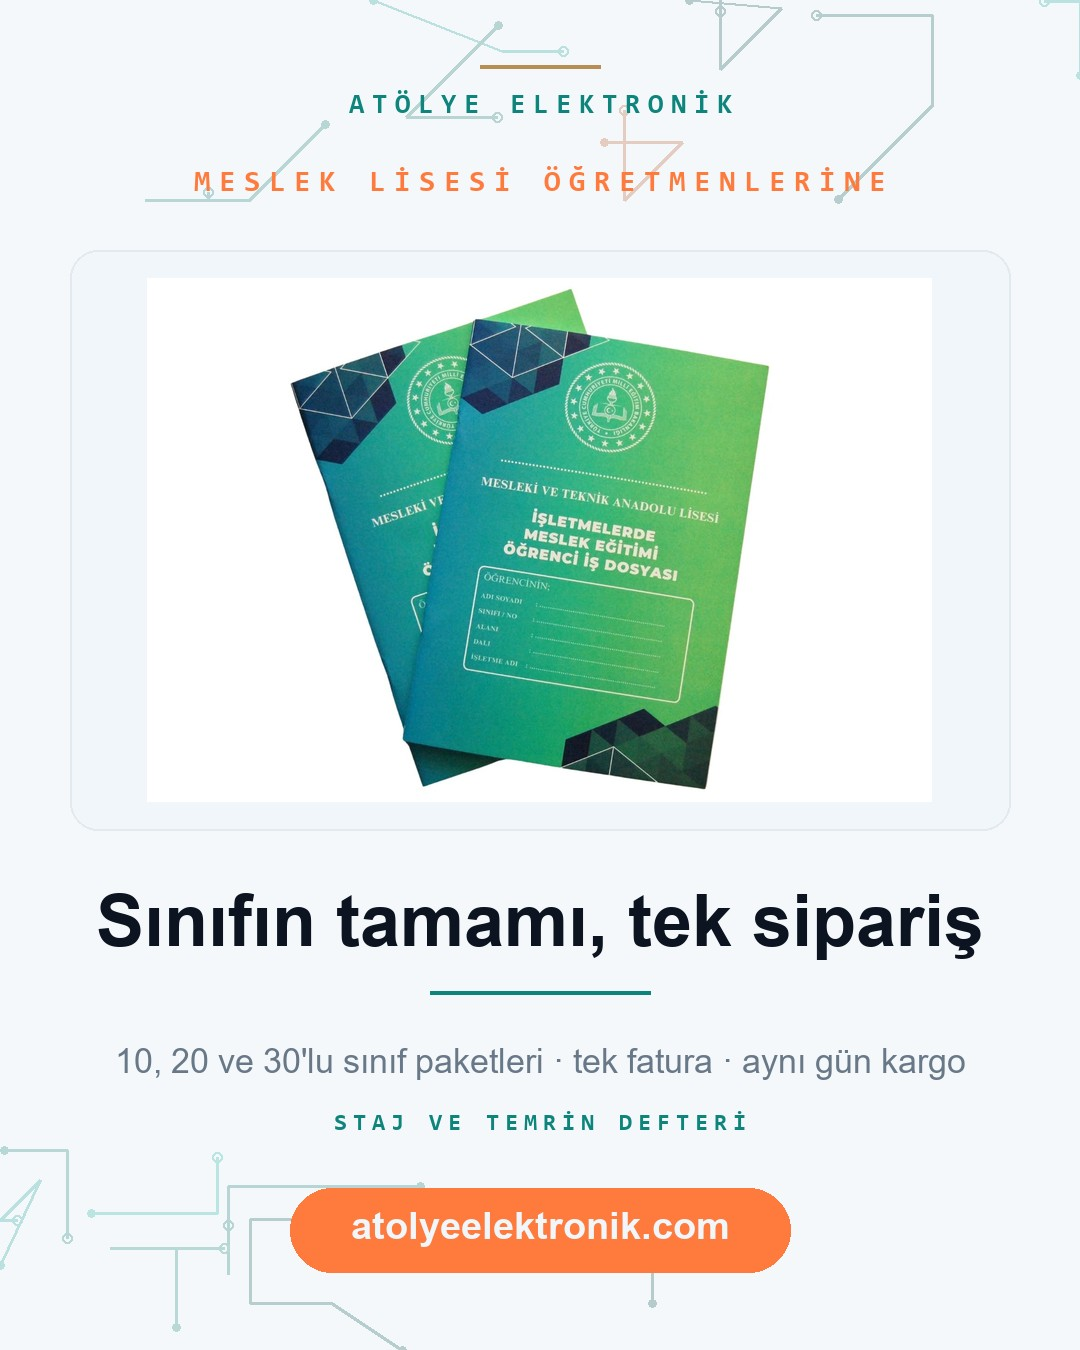
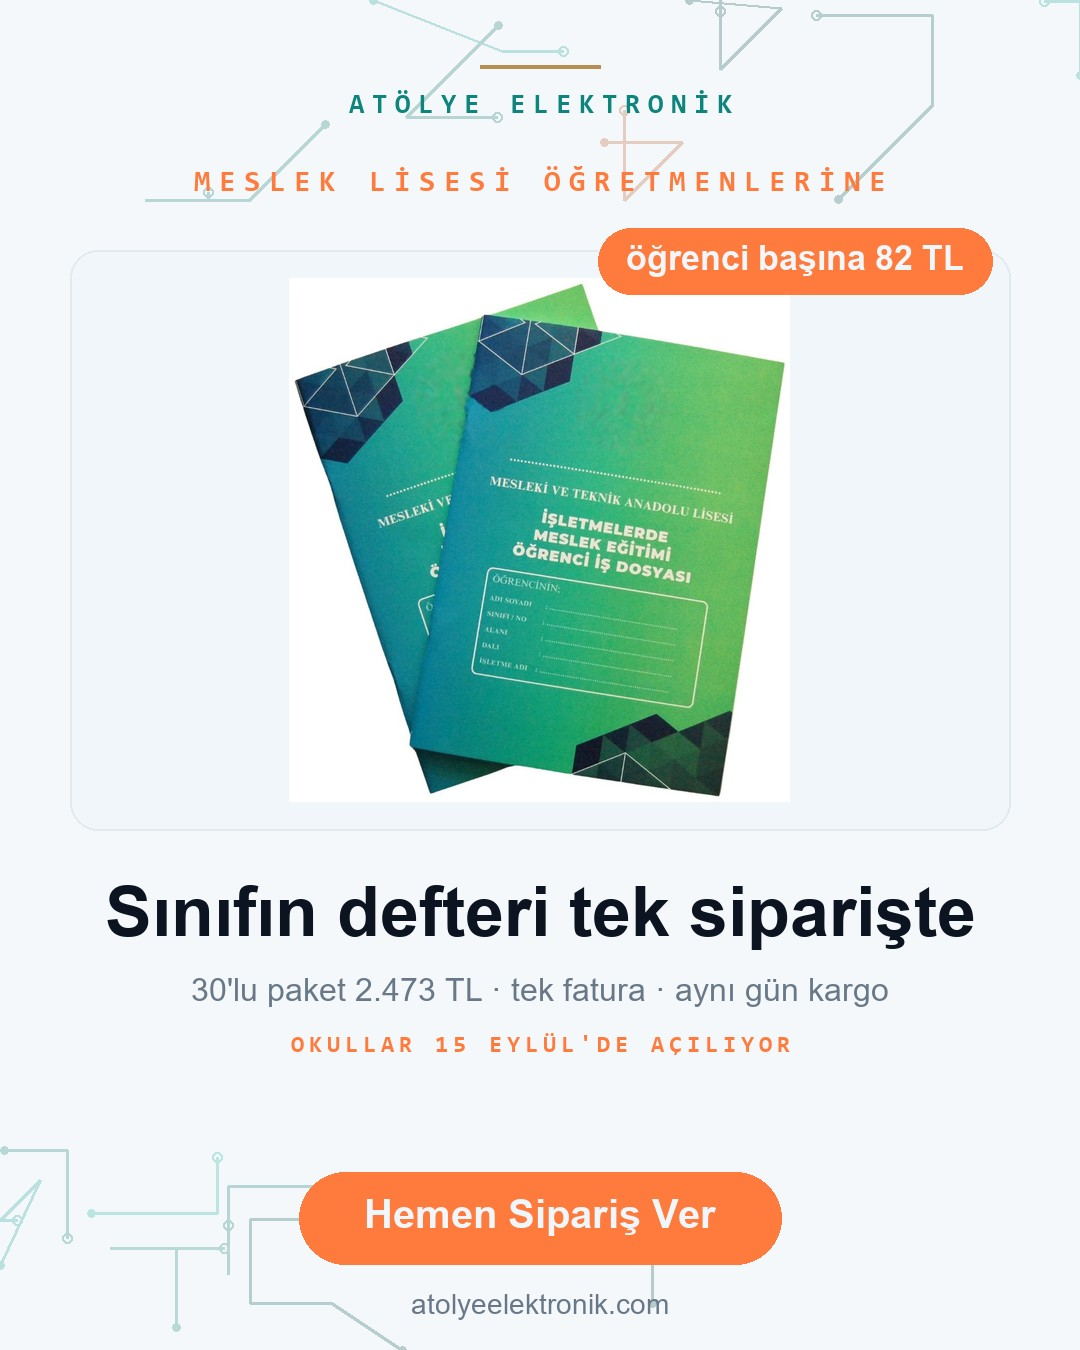
feat: ogretmen gorselleri satis odakli + MEB amblemsiz defter fotografi
Kullanici uc duzeltme yapti:

1) Satis odakli ol. Gorseller bilgilendiriciydi, satmiyordu. Eklendi:
   fiyat rozeti (fotografin sag ust kosesinde), sezon aciligi
   ('OKULLAR 15 EYLUL'DE ACILIYOR') ve alan adi yerine gercek eylem
   cagrisi ('Hemen Siparis Ver'; alan adi altta kucuk kaldi).
   Defterde birim 'ogrenci basina 82 TL' - ogretmenin karar verdigi birim
   bu; 2.473 TL yerine 82 TL gormek karari kolaylastiriyor.

2) Defter fotografinda MEB amblemi vardi. Trendyol defterleri tam da bu
   yuzden reddetmisti. Shopify kapagi yerine TY onayindan gecen amblemsiz
   kare kullaniliyor.

3) Pazaryeri fotograflari beyaz zeminde bol bosluk geliyor ve urun kartin
   icinde kucuk kaliyordu; _kirp_beyaz() ile kenar boslugu kirpiliyor.

Fiyatlar Shopify'dan 28.08'de alindi, yayindan once dogrulanmali.

Changed region(s): [[0.275, 0.1556, 0.9167, 0.5911], [0.0917, 0.6533, 0.9167, 0.84], [0.2444, 0.8711, 0.7333, 0.9956]]

diff --git a/tools/meta_ogretmen_gorsel.py b/tools/meta_ogretmen_gorsel.py
@@ -46,36 +46,51 @@ GRI = (104, 120, 136)
 
 CDN = "https://cdn.shopify.com/s/files/1/0801/9692/7717/files/"
 
+# Fiyatlar Shopify'dan 28.08'de alındı. Fiyat rozeti bilerek var: satış
+# görselinde rakam görmeyen kullanıcı tıklamıyor, fiyatı merak edip kaydırıyor.
+# Defterde birim "öğrenci başına" — öğretmenin karar verdiği birim bu, 2.473 TL
+# yerine 82 TL görmek kararı kolaylaştırıyor.
 REKLAMLAR = [
     {
         "dosya": "meta-ogretmen-defter.png",
-        "foto": CDN + "isdosyasi1_377200c3-0c47-452a-9bde-8c9dcd1ac333.webp?v=1784792291",
-        "baslik": "Sınıfın tamamı, tek sipariş",
-        "destek": "10, 20 ve 30'lu sınıf paketleri · tek fatura · aynı gün kargo",
-        "rozet": "STAJ VE TEMRİN DEFTERİ",
+        # Shopify'daki kapak fotografinda MEB amblemi var; Trendyol defterleri
+        # tam da bu yuzden reddetmisti (bkz. trendyol-defter-urunleri-red).
+        # Bu kare TY onayindan gecen, amblemsiz surum.
+        "foto": "https://cdn.dsmcdn.com/ty1905/prod/QC_PREP/20260817/16/"
+                "933fe5df-927d-3c53-a0e2-770fbd910a0e/1_org_zoom.jpg",
+        "rozet_fiyat": "öğrenci başına 82 TL",
+        "baslik": "Sınıfın defteri tek siparişte",
+        "destek": "30'lu paket 2.473 TL · tek fatura · aynı gün kargo",
+        "kategori": "STAJ VE TEMRİN DEFTERİ",
     },
     {
         "dosya": "meta-ogretmen-takim-cantasi.png",
         "foto": CDN + "Takimcantasi.png?v=1785258195",
+        "rozet_fiyat": "1.911 TL",
         "baslik": "Atölye dersine hazır sınıf",
         "destek": "17 parça tam set · sınıf adedi kadar tek seferde",
-        "rozet": "MESLEK LİSESİ TAKIM ÇANTASI",
+        "kategori": "MESLEK LİSESİ TAKIM ÇANTASI",
     },
     {
         "dosya": "meta-ogretmen-endustriyel.png",
         "foto": CDN + "EndElkhepsi.webp?v=1782335968",
+        "rozet_fiyat": "659 TL",
         "baslik": "11. sınıf müfredatına birebir",
-        "destek": "Her öğrenci aynı setle çalışır, ders tek elden yürür",
-        "rozet": "ENDÜSTRİYEL ELEKTRONİK SETİ",
+        "destek": "Her öğrenci aynı setle çalışır · aynı gün kargo",
+        "kategori": "ENDÜSTRİYEL ELEKTRONİK SETİ",
     },
     {
         "dosya": "meta-ogretmen-arduino.png",
         "foto": CDN + "Baslangicseti.png?v=1785260927",
+        "rozet_fiyat": "782 TL",
         "baslik": "Proje dersine hazır set",
-        "destek": "Kutulu setler · Türkçe kaynak ve devre örnekleri",
-        "rozet": "ARDUINO EĞİTİM SETLERİ",
+        "destek": "46 parça · Türkçe kaynak ve devre örnekleri",
+        "kategori": "ARDUINO BAŞLANGIÇ SETİ",
     },
 ]
+
+ACELE = "OKULLAR 15 EYLÜL'DE AÇILIYOR"
+CTA = "Hemen Sipariş Ver"
 
 CIKTI_DIZIN = pathlib.Path(__file__).resolve().parents[1] / "posts" / "media" / "meta-ogretmen"
 
@@ -100,13 +115,34 @@ def _zemin_ac(seed: str) -> tuple[Image.Image, ImageDraw.ImageDraw]:
     return tuval, ImageDraw.Draw(tuval)
 
 
+def _kirp_beyaz(foto: Image.Image, esik: int = 244) -> Image.Image:
+    """Ürün fotoğrafının beyaz kenar boşluklarını kırpar.
+
+    Pazaryeri fotoğrafları beyaz zeminde bol boşlukla geliyor; olduğu gibi
+    yerleştirilince ürün kartın içinde küçücük kalıyor. Kırpınca ürün kartı
+    dolduruyor ve akışta görünür oluyor.
+    """
+    gri = foto.convert("L")
+    maske = gri.point(lambda p: 255 if p < esik else 0)
+    kutu = maske.getbbox()
+    if not kutu:
+        return foto
+    # Birkaç piksel pay bırak ki ürün kenarları kesilmesin
+    pay = 8
+    x0 = max(0, kutu[0] - pay)
+    y0 = max(0, kutu[1] - pay)
+    x1 = min(foto.width, kutu[2] + pay)
+    y1 = min(foto.height, kutu[3] + pay)
+    return foto.crop((x0, y0, x1, y1))
+
+
 def _foto_kart(tuval: Image.Image, d: ImageDraw.ImageDraw, url: str) -> None:
     """Ürün fotoğrafını beyaz yuvarlak kartın içine oranını bozmadan yerleştirir."""
     x0, y0, x1, y1 = KART
     d.rounded_rectangle([x0, y0, x1, y1], radius=28, fill=BEYAZ,
                         outline=(226, 233, 239), width=2)
 
-    foto = _indir(url).convert("RGB")
+    foto = _kirp_beyaz(_indir(url).convert("RGB"))
     ic_w, ic_h = (x1 - x0) - 56, (y1 - y0) - 56
     olcek = min(ic_w / foto.width, ic_h / foto.height)
     yeni = foto.resize((max(1, int(foto.width * olcek)), max(1, int(foto.height * olcek))),
@@ -114,6 +150,21 @@ def _foto_kart(tuval: Image.Image, d: ImageDraw.ImageDraw, url: str) -> None:
     px = x0 + ((x1 - x0) - yeni.width) // 2
     py = y0 + ((y1 - y0) - yeni.height) // 2
     tuval.paste(yeni, (px, py))
+
+
+def _fiyat_rozeti(d: ImageDraw.ImageDraw, metin: str) -> None:
+    """Fotoğraf kartının sağ üst köşesine oturan turuncu fiyat rozeti.
+
+    Satış görselinde rakam görmeyen kullanıcı tıklamıyor, fiyatı merak edip
+    kaydırıyor. Rozet fotoğrafın üstüne biniyor ki gözden kaçmasın.
+    """
+    f = _bold(34)
+    gen = d.textlength(metin, font=f)
+    ph, pw = 66, gen + 56
+    x1, y0 = KART[2] - 18, KART[1] - 22
+    x0 = x1 - pw
+    d.rounded_rectangle([x0, y0, x1, y0 + ph], radius=ph / 2, fill=TURUNCU)
+    d.text((x0 + 28, y0 + ph / 2 - 22), metin, font=f, fill=BEYAZ)
 
 
 def uret(reklam: dict) -> pathlib.Path:
@@ -133,36 +184,40 @@ def uret(reklam: dict) -> pathlib.Path:
     _foto_kart(tuval, d, reklam["foto"])
     d = ImageDraw.Draw(tuval)
 
+    # Fiyat rozeti — fotografin sag ust kosesine oturuyor
+    _fiyat_rozeti(d, reklam["rozet_fiyat"])
+
     # Asıl vaat
     fb, satirlar, boyut = _sigdir(
-        d, reklam["baslik"], W - 160, [([72, 64], 2), ([56], 3)]
+        d, reklam["baslik"], W - 160, [([70, 62], 2), ([54], 3)]
     )
-    y = 880
+    y = 872
     for s in satirlar:
         d.text(((W - d.textlength(s, font=fb)) / 2, y), s, font=fb, fill=LACIVERT)
         y += int(boyut * 1.2)
 
-    d.line([(W / 2 - 110, y + 26), (W / 2 + 110, y + 26)], fill=TEAL, width=4)
-
     # Destek cümlesi — gerekirse küçülterek tek satırda tut
-    fd = _normal(34)
-    while d.textlength(reklam["destek"], font=fd) > W - 140 and fd.size > 24:
+    fd = _normal(32)
+    while d.textlength(reklam["destek"], font=fd) > W - 140 and fd.size > 22:
         fd = _normal(fd.size - 2)
-    d.text(((W - d.textlength(reklam["destek"], font=fd)) / 2, y + 76),
+    d.text(((W - d.textlength(reklam["destek"], font=fd)) / 2, y + 16),
            reklam["destek"], font=fd, fill=GRI)
 
-    # Rozet
-    fr = _mono(24)
-    gen = _aralikli_genislik(d, reklam["rozet"], fr, aralik=6)
-    _aralikli(d, ((W - gen) / 2, y + 146), reklam["rozet"], fr, TEAL, aralik=6)
+    # Aciliyet — sezon penceresi dar, karari bugune cekiyor
+    fa = _mono(24)
+    gen = _aralikli_genislik(d, ACELE, fa, aralik=5)
+    _aralikli(d, ((W - gen) / 2, y + 78), ACELE, fa, TURUNCU, aralik=5)
 
-    # CTA
-    fp = _bold(38)
-    gen = d.textlength(SITE, font=fp)
-    ph, pw = 84, gen + 120
-    x0, y0 = (W - pw) / 2, 1230 - ph / 2
+    # CTA: alan adi degil EYLEM. Alan adi altta kucuk kaliyor.
+    fp = _bold(40)
+    gen = d.textlength(CTA, font=fp)
+    ph, pw = 92, gen + 130
+    x0, y0 = (W - pw) / 2, 1218 - ph / 2
     d.rounded_rectangle([x0, y0, x0 + pw, y0 + ph], radius=ph / 2, fill=TURUNCU)
-    d.text(((W - gen) / 2, 1230 - 26), SITE, font=fp, fill=BEYAZ)
+    d.text(((W - gen) / 2, 1218 - 27), CTA, font=fp, fill=BEYAZ)
+
+    fs2 = _normal(28)
+    d.text(((W - d.textlength(SITE, font=fs2)) / 2, 1288), SITE, font=fs2, fill=GRI)
 
     CIKTI_DIZIN.mkdir(parents=True, exist_ok=True)
     return _kaydet(tuval, CIKTI_DIZIN / reklam["dosya"])
